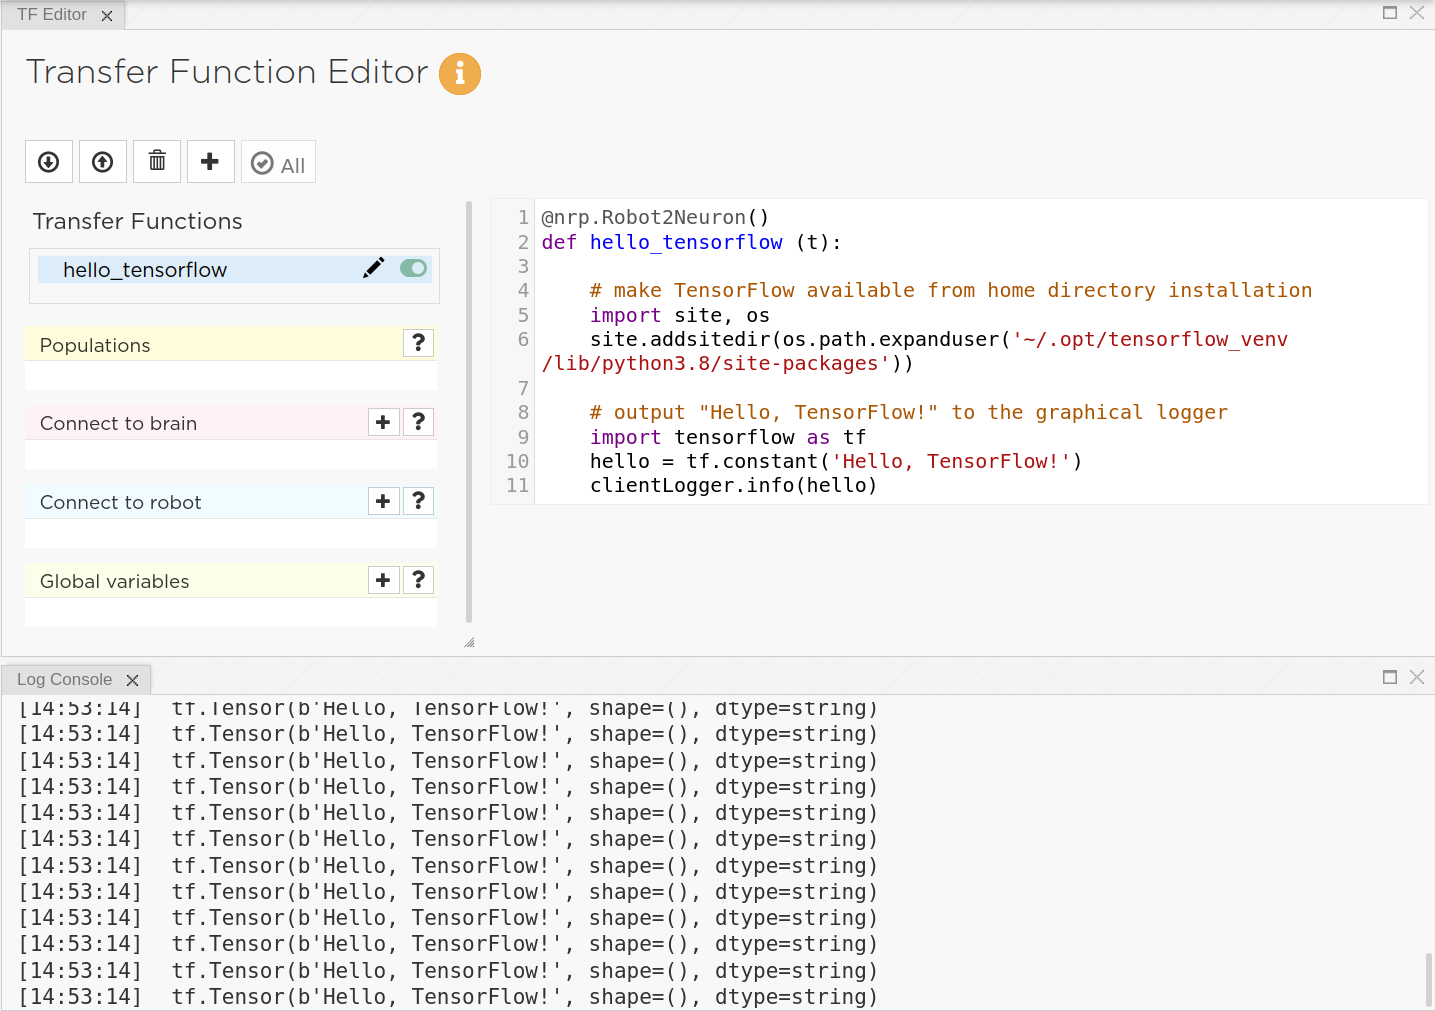
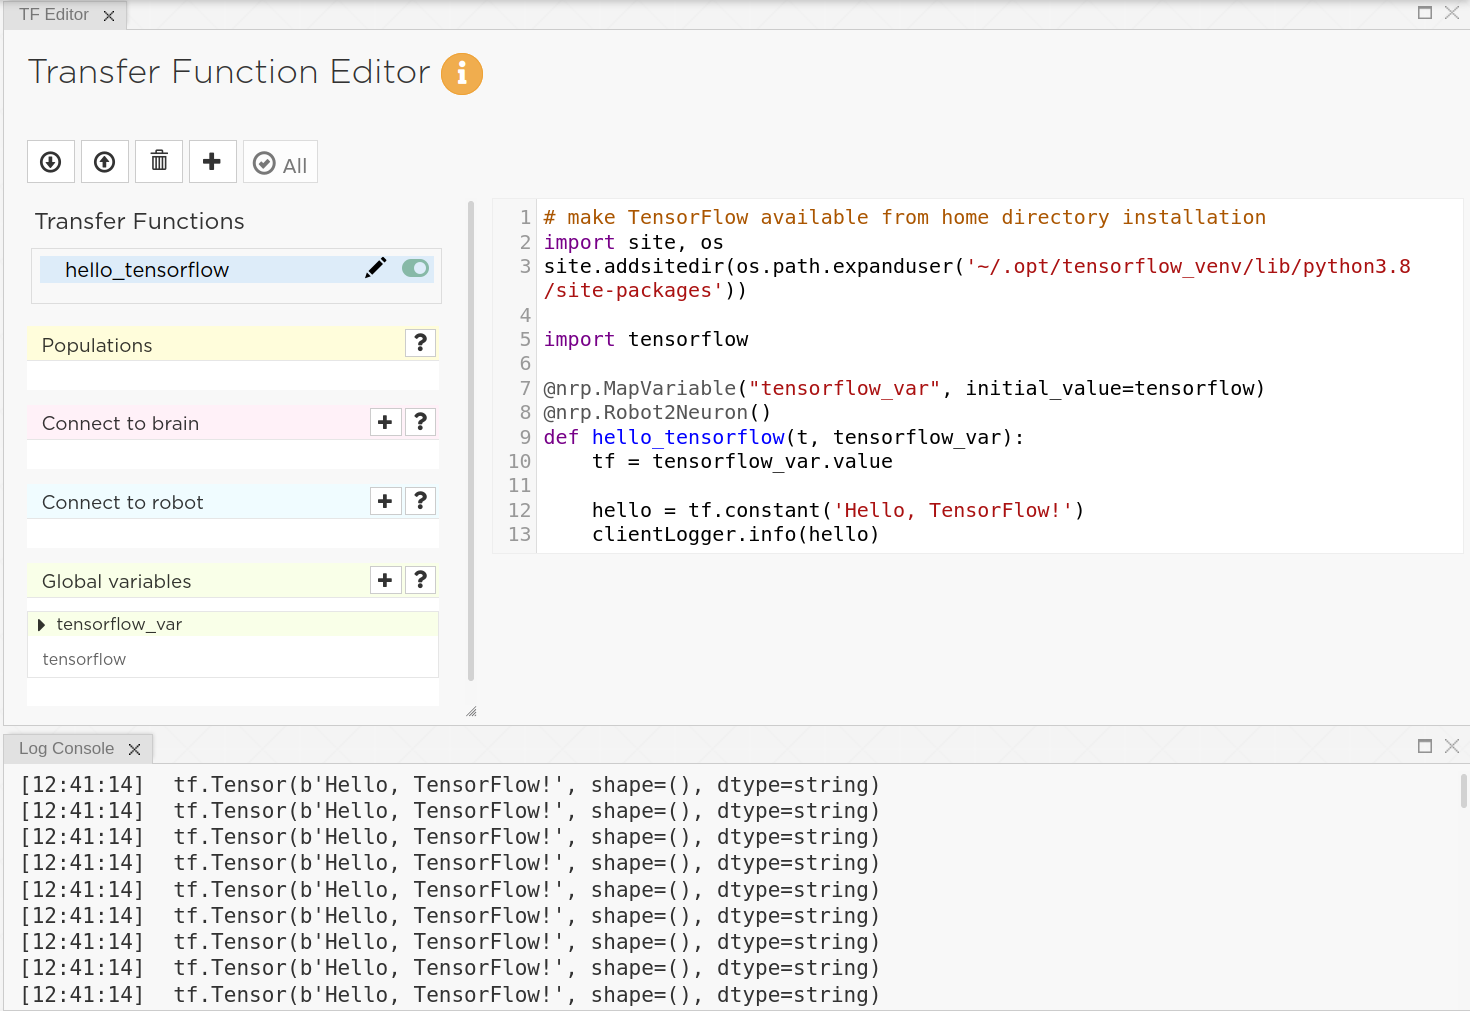
Updated new tutorial page. Example transfer function now imports tensorflow outside of function body.

diff --git a/src/nrp/tutorials/tensorflow/tutorial.rst b/src/nrp/tutorials/tensorflow/tutorial.rst
@@ -79,15 +79,17 @@ You can easily embed the above "Hello, TensorFlow!" example within the :abbr:`NR
 
     .. code-block:: python
 
+        # make TensorFlow available from home directory installation
+        import site, os
+        site.addsitedir(os.path.expanduser('~/.opt/tensorflow_venv/lib/python3.8/site-packages'))
+
+        import tensorflow
+
+        @nrp.MapVariable("tensorflow_var", initial_value=tensorflow)
         @nrp.Robot2Neuron()
-        def hello_tensorflow(t):
-
-            # make TensorFlow available from home directory installation
-            import site, os
-            site.addsitedir(os.path.expanduser('~/.opt/tensorflow_venv/lib/python3.8/site-packages'))
-
-            # output "Hello, TensorFlow!" to the graphical logger
-            import tensorflow as tf
+        def hello_tensorflow(t, tensorflow_var):
+            tf = tensorflow_var.value
+            
             hello = tf.constant('Hello, TensorFlow!')
             clientLogger.info(hello)
 
